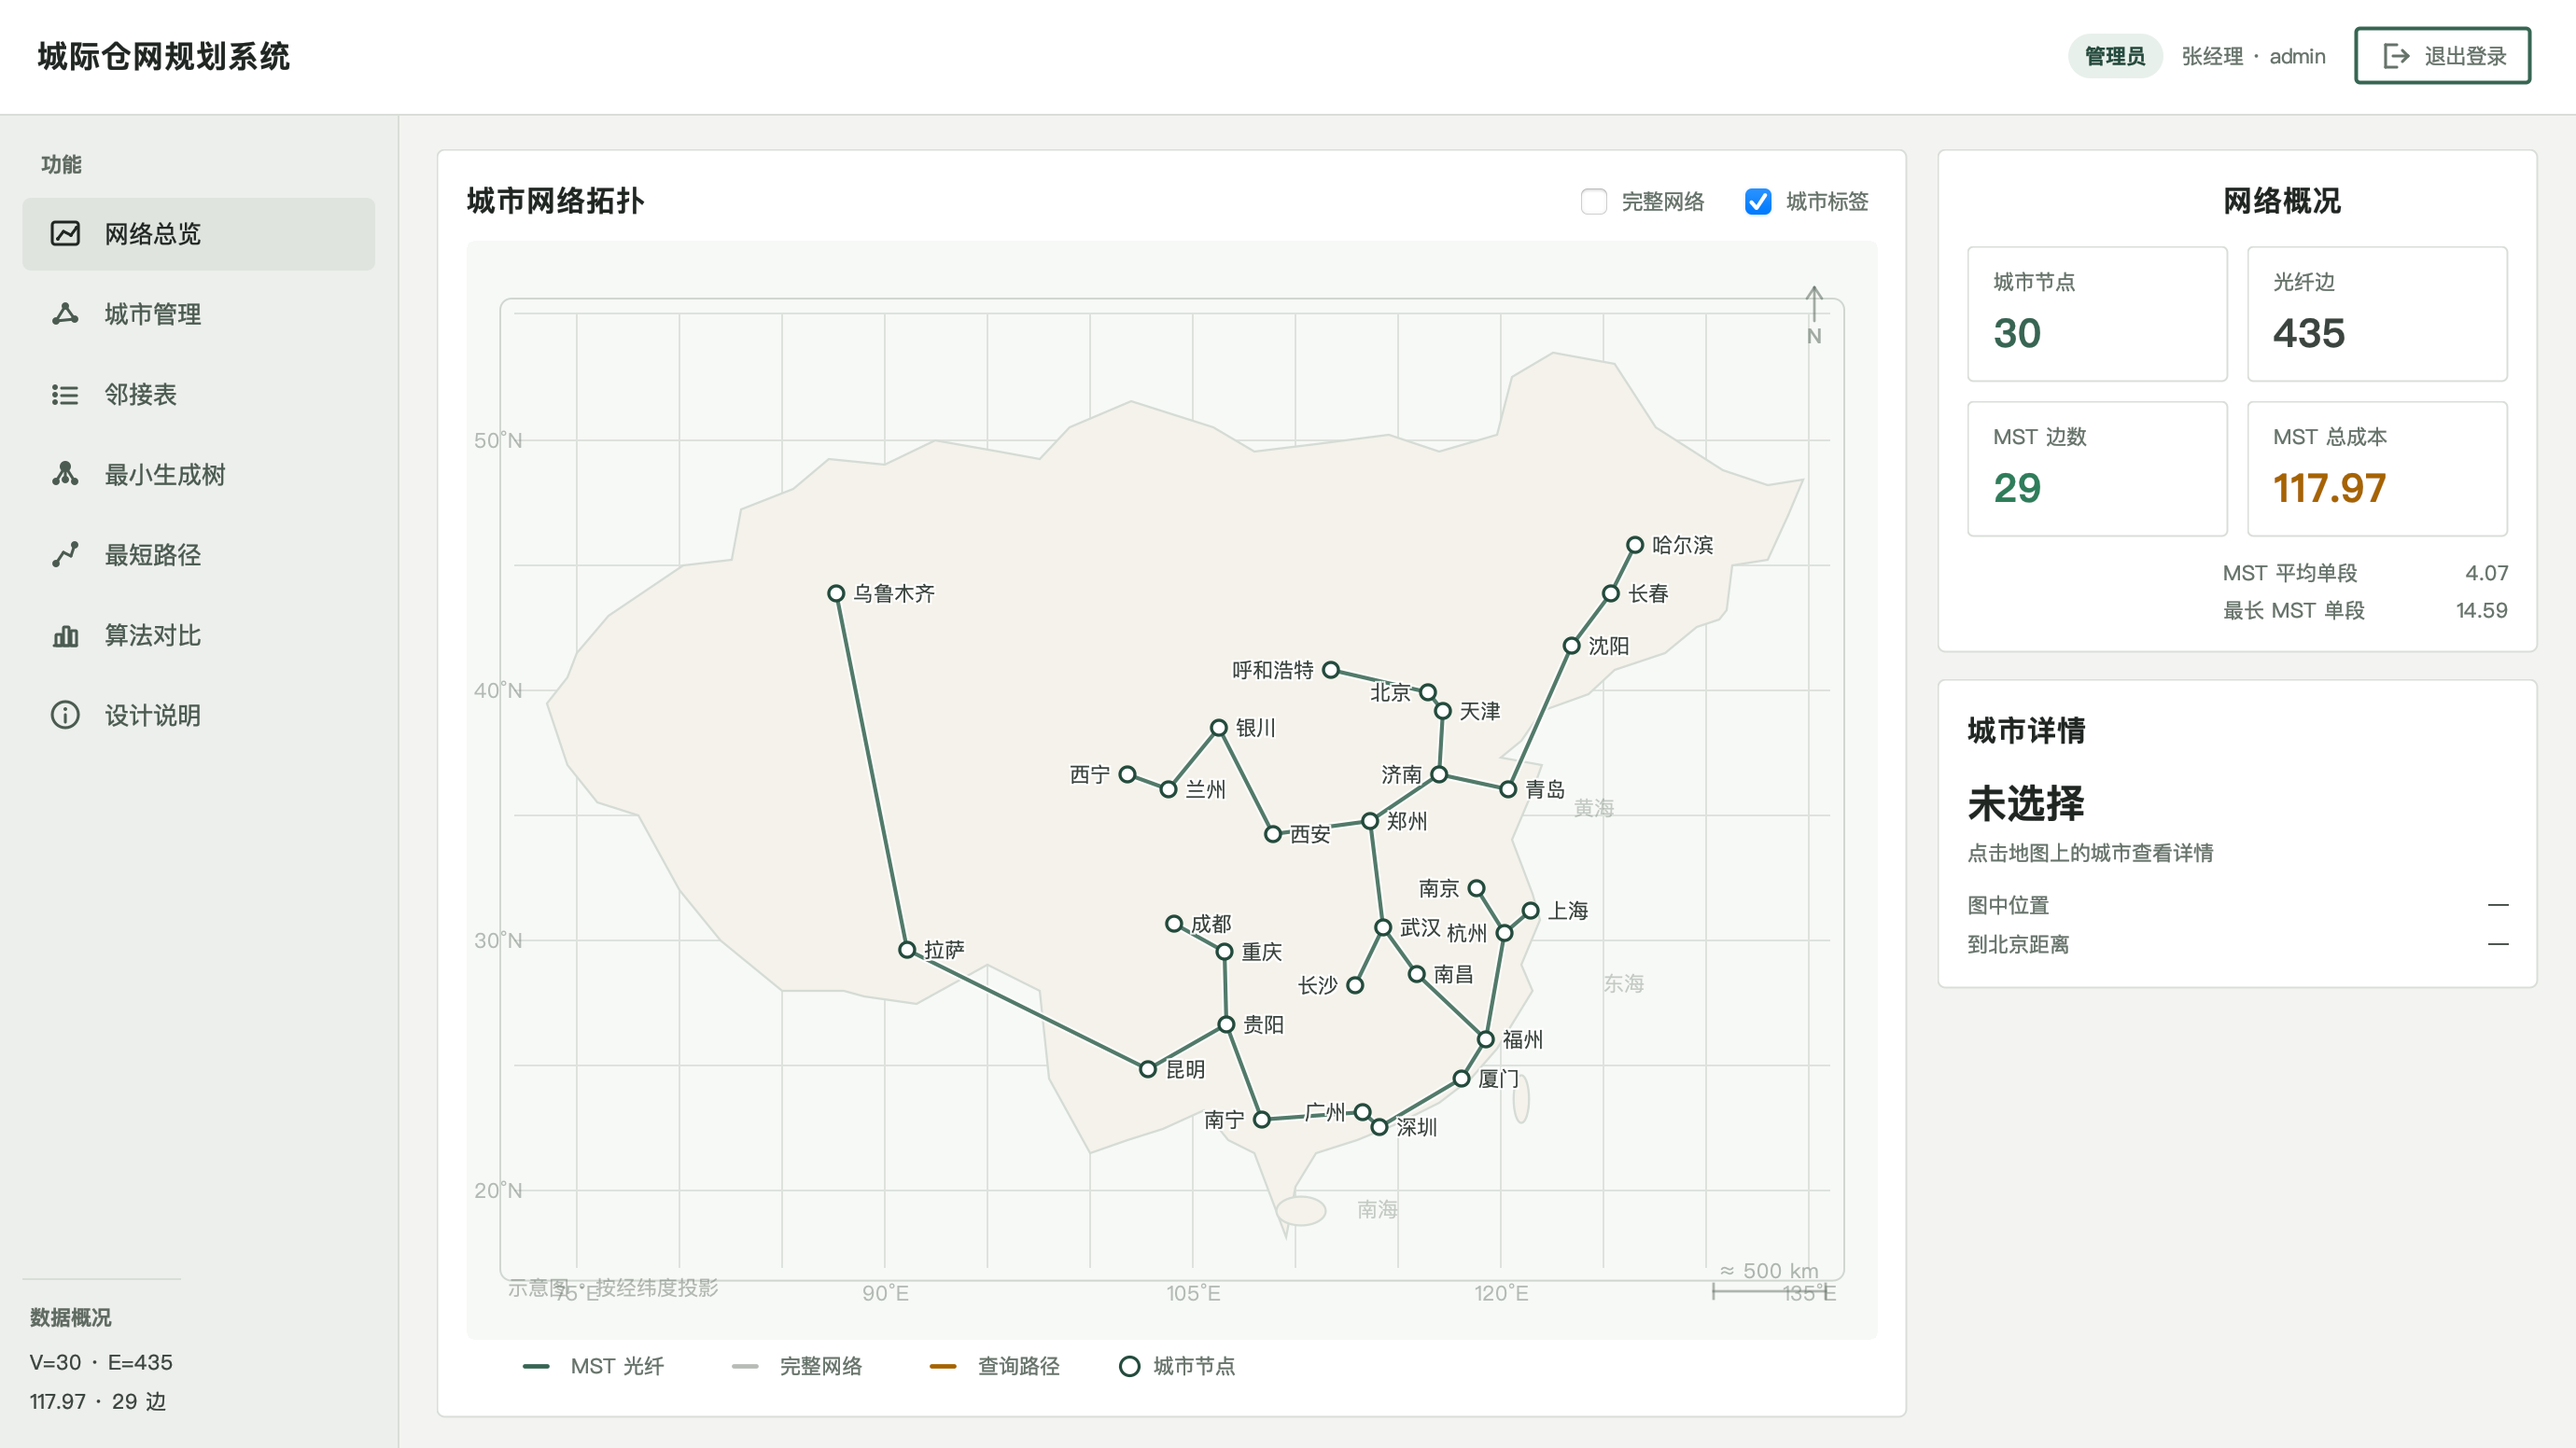
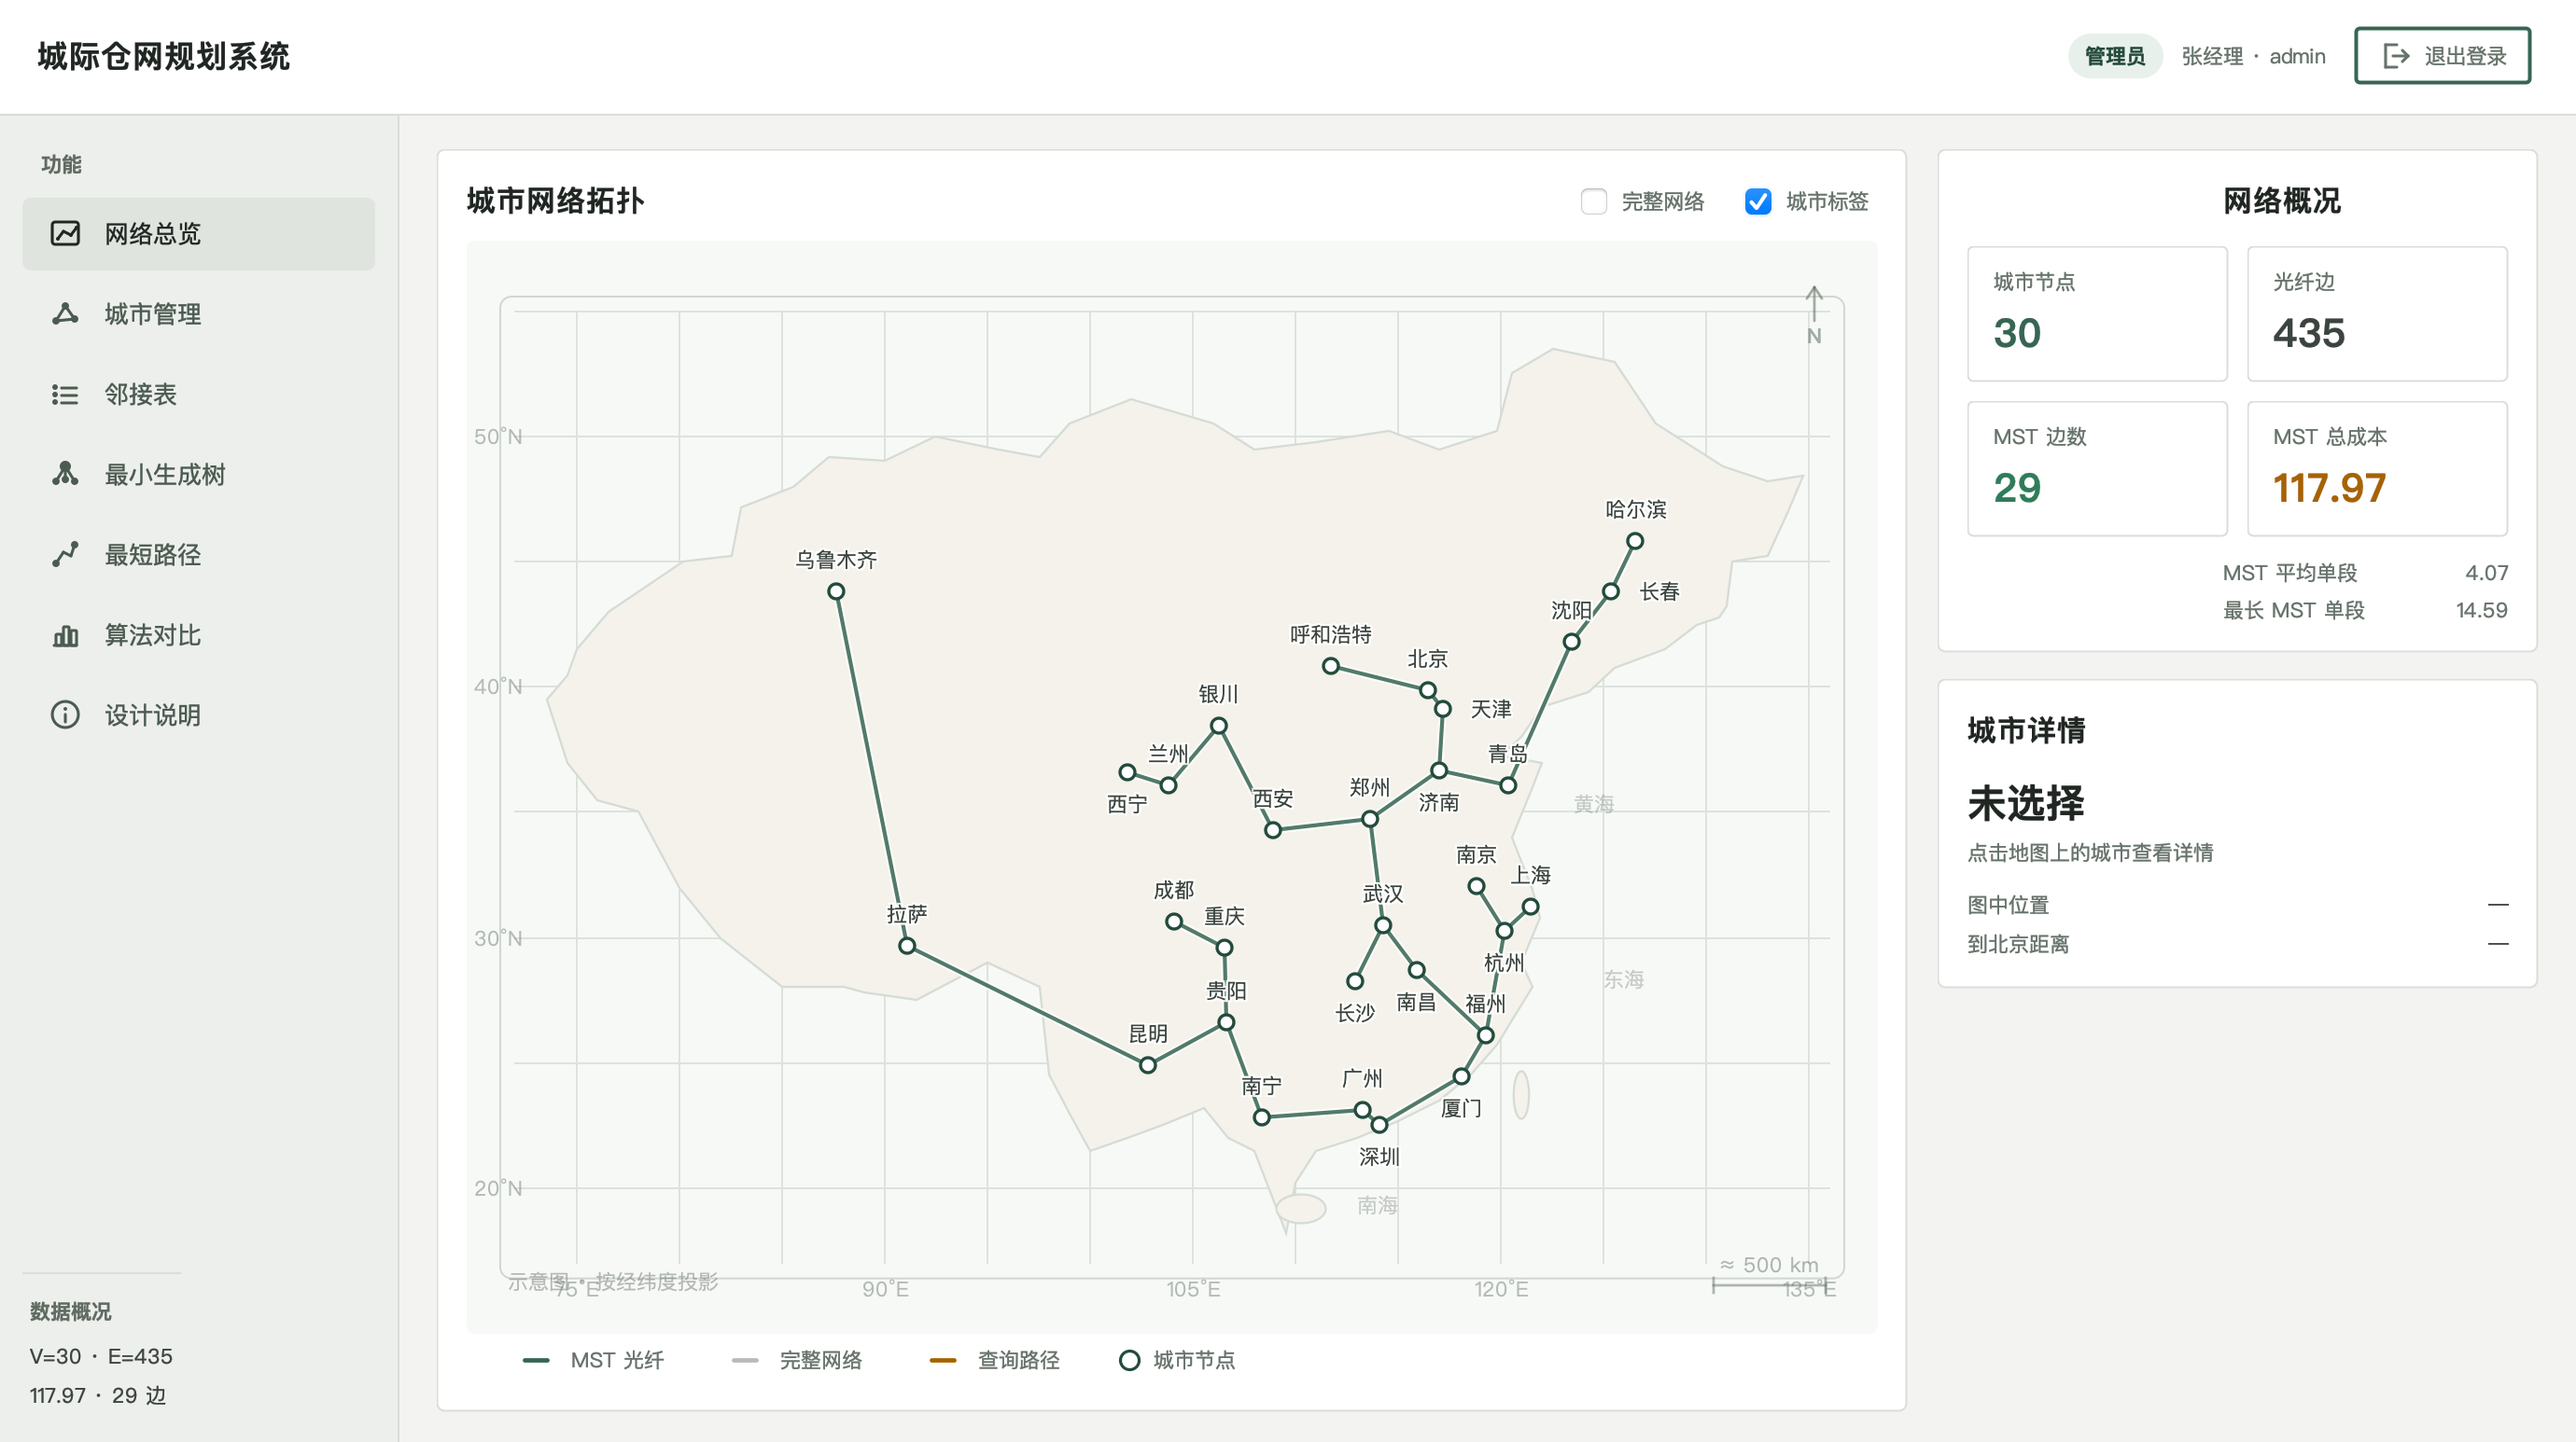
fix: prevent city labels from overlapping

diff --git a/src/logistics/ui/MapPanel.java b/src/logistics/ui/MapPanel.java
@@ -398,10 +398,12 @@ public final class MapPanel extends JPanel {
         FontMetrics fm = g2.getFontMetrics();
         List<Rectangle> placed = new ArrayList<>();
         List<Rectangle> dots = new ArrayList<>();
+        final int padX = 2;
+        final int padY = 1;
         for (int i = 0; i < cities.size(); i++) {
             int x = xOf(cities.get(i).getLon());
             int y = yOf(cities.get(i).getLat());
-            dots.add(new Rectangle(x - 7, y - 7, 14, 14));
+            dots.add(new Rectangle(x - 8, y - 8, 16, 16));
         }
 
         for (int i : order) {
@@ -410,47 +412,51 @@ public final class MapPanel extends JPanel {
             int y = yOf(city.getLat());
             int tw = fm.stringWidth(city.getName());
             int th = fm.getHeight();
-            int[][] cand = {
-                    {x + 9, y - th / 2},
-                    {x - tw - 9, y - th / 2},
-                    {x - tw / 2, y - th - 8},
-                    {x - tw / 2, y + 9},
-                    {x + 8, y - th - 4},
-                    {x - tw - 8, y - th - 4},
-                    {x + 8, y + 4},
-                    {x - tw - 8, y + 4}
-            };
+            List<int[]> candidates = new ArrayList<>();
+            for (int distance : new int[]{9, 15, 22}) {
+                candidates.add(new int[]{x + distance, y - th / 2});
+                candidates.add(new int[]{x - tw - distance, y - th / 2});
+                candidates.add(new int[]{x - tw / 2, y - th - distance});
+                candidates.add(new int[]{x - tw / 2, y + distance});
+                candidates.add(new int[]{x + distance, y - th - 2});
+                candidates.add(new int[]{x - tw - distance, y - th - 2});
+                candidates.add(new int[]{x + distance, y + 2});
+                candidates.add(new int[]{x - tw - distance, y + 2});
+            }
             Rectangle chosen = null;
-            for (int[] c : cand) {
-                Rectangle rect = new Rectangle(c[0], c[1], tw, th);
-                if (rect.x < 4 || rect.y < 4 || rect.x + rect.width > w - 4
-                        || rect.y + rect.height > h - 4) {
+            Rectangle chosenPadding = null;
+            for (int[] c : candidates) {
+                Rectangle padded = new Rectangle(c[0] - padX, c[1] - padY,
+                        tw + padX * 2, th + padY * 2);
+                if (padded.x < 4 || padded.y < 4 || padded.x + padded.width > w - 4
+                        || padded.y + padded.height > h - 4) {
                     continue;
                 }
                 boolean clash = false;
                 for (Rectangle other : placed) {
-                    if (other.intersects(rect)) {
+                    if (other.intersects(padded)) {
                         clash = true;
                         break;
                     }
                 }
                 if (!clash) {
                     for (Rectangle dot : dots) {
-                        if (dot.intersects(rect)) {
+                        if (dot.intersects(padded)) {
                             clash = true;
                             break;
                         }
                     }
                 }
                 if (!clash) {
-                    chosen = rect;
+                    chosen = new Rectangle(c[0], c[1], tw, th);
+                    chosenPadding = padded;
                     break;
                 }
             }
             if (chosen == null) {
                 continue;
             }
-            placed.add(chosen);
+            placed.add(chosenPadding);
 
             boolean isPath = pathSet.contains(i);
             Color color = i == from ? START

diff --git a/docs/实验报告.md b/docs/实验报告.md
@@ -490,7 +490,7 @@ for (int iter = 0; iter < n; iter++) {
 - 城市名不能为空、不能含空格；经纬度范围校验；重名拒绝；
 - 至少保留 2 个城市，否则无法计算边和路径；
 - 城市修改自动保存；提供“恢复默认 30 城”便于演示；
-- 启动时重建两次以预热 JIT，状态栏显示稳态重建耗时，避免把冷启动误报成真实性能。
+- 启动时重建两次以预热 JIT，避免把冷启动耗时混入性能统计。
 
 ---
 
